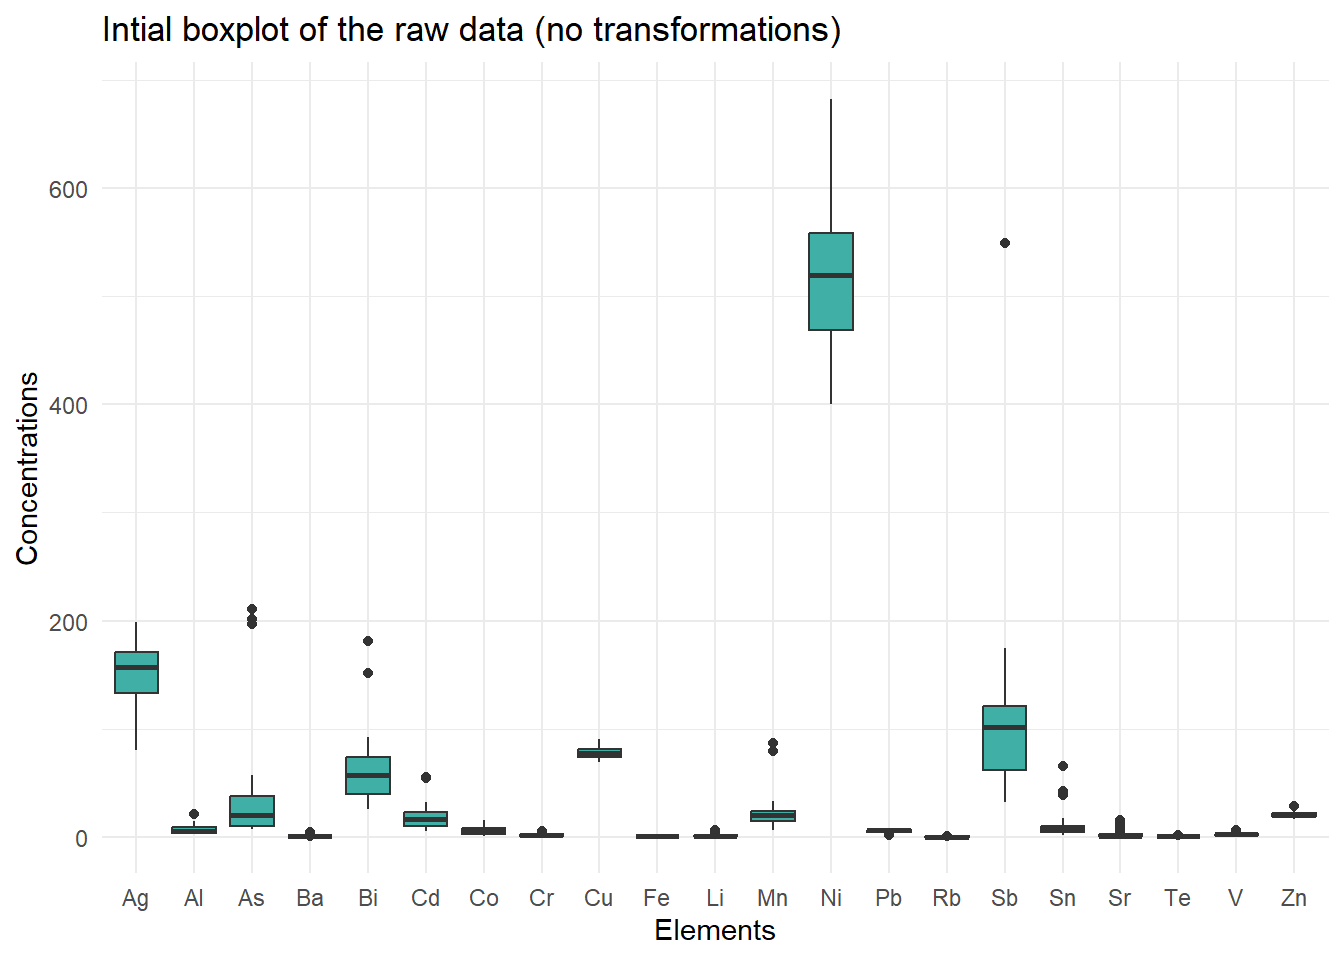
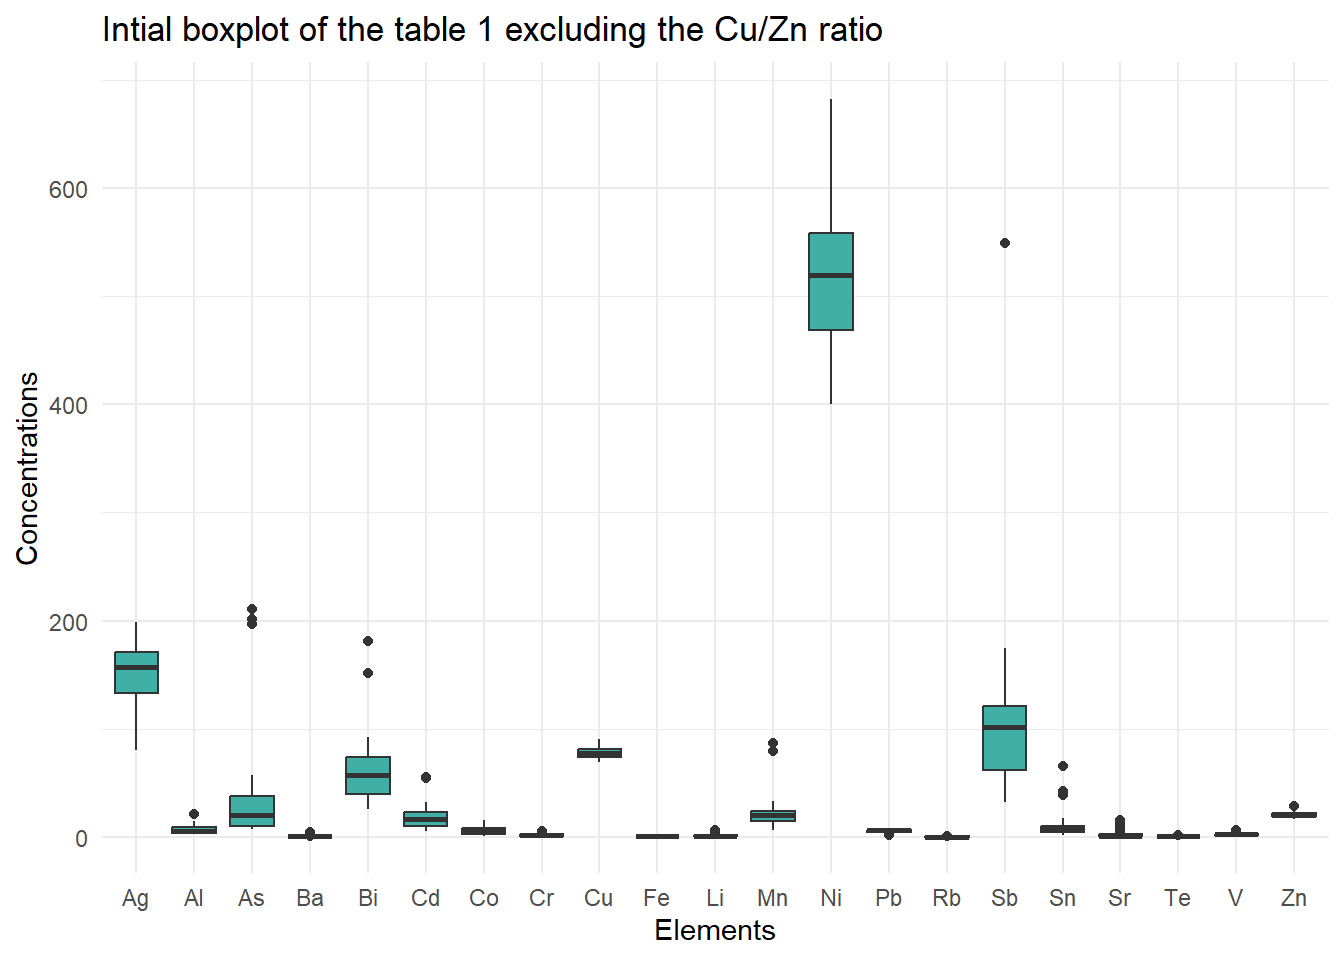
fixing the summary table

Changed region(s): [[0.2812, 0.0, 0.6562, 0.0625]]

diff --git a/Text/Reports/Report.html b/Text/Reports/Report.html
@@ -1107,7 +1107,7 @@ ul.task-list li input[type="checkbox"] {
 <p>Data obtained for the table above containing the main component, trace element concentrations and Cu/Zn weight ratio was obtained by Inductively coupled plasma optical emission spectroscopy (ICP-OES) and Inductively coupled plasma mass spectrometry (ICP-MS) techniques (Caponetti et al). Collecting samples from 38 ancient ingots (they originally collected 40) to analysis the association between the ingots composition.</p>
 <p>For the analysis of our report we will be considering all the main components and trace element concentrations exuding the Cu/Zn ratio as…</p>
 <p><strong>2.2 Brief summary of the data</strong></p>
-<p>We started by performing a simple summary of the data</p>
+<p>We started by performing a simple summary of the data in table 1 and creating a box plot to visualize the data. Something to highlight is that the main elements (Cu, Zn, Pb and Fe) are all in percentages, where as the concentrations of the trace elements are in PPM (parts per a million)</p>
 <div class="cell">
 <div class="cell-output-display">
 <table class="caption-top table table-sm table-striped small">
@@ -1115,7 +1115,7 @@ ul.task-list li input[type="checkbox"] {
 <tbody>
 <tr class="odd">
 <td style="text-align: left;">Name</td>
-<td style="text-align: left;">Ingots_F_no</td>
+<td style="text-align: left;">Ingots_F_no[, -1]</td>
 </tr>
 <tr class="even">
 <td style="text-align: left;">Number of rows</td>
@@ -1123,7 +1123,7 @@ ul.task-list li input[type="checkbox"] {
 </tr>
 <tr class="odd">
 <td style="text-align: left;">Number of columns</td>
-<td style="text-align: left;">22</td>
+<td style="text-align: left;">21</td>
 </tr>
 <tr class="even">
 <td style="text-align: left;">_______________________</td>
@@ -1134,80 +1134,35 @@ ul.task-list li input[type="checkbox"] {
 <td style="text-align: left;"></td>
 </tr>
 <tr class="even">
-<td style="text-align: left;">character</td>
-<td style="text-align: left;">1</td>
-</tr>
-<tr class="odd">
 <td style="text-align: left;">numeric</td>
 <td style="text-align: left;">21</td>
 </tr>
-<tr class="even">
+<tr class="odd">
 <td style="text-align: left;">________________________</td>
 <td style="text-align: left;"></td>
 </tr>
-<tr class="odd">
+<tr class="even">
 <td style="text-align: left;">Group variables</td>
 <td style="text-align: left;">None</td>
-</tr>
-</tbody>
-</table>
-<p><strong>Variable type: character</strong></p>
-<table class="caption-top table table-sm table-striped small">
-<colgroup>
-<col style="width: 19%">
-<col style="width: 13%">
-<col style="width: 19%">
-<col style="width: 5%">
-<col style="width: 5%">
-<col style="width: 8%">
-<col style="width: 12%">
-<col style="width: 15%">
-</colgroup>
-<thead>
-<tr class="header">
-<th style="text-align: left;">skim_variable</th>
-<th style="text-align: right;">n_missing</th>
-<th style="text-align: right;">complete_rate</th>
-<th style="text-align: right;">min</th>
-<th style="text-align: right;">max</th>
-<th style="text-align: right;">empty</th>
-<th style="text-align: right;">n_unique</th>
-<th style="text-align: right;">whitespace</th>
-</tr>
-</thead>
-<tbody>
-<tr class="odd">
-<td style="text-align: left;">Sample</td>
-<td style="text-align: right;">0</td>
-<td style="text-align: right;">1</td>
-<td style="text-align: right;">2</td>
-<td style="text-align: right;">3</td>
-<td style="text-align: right;">0</td>
-<td style="text-align: right;">38</td>
-<td style="text-align: right;">0</td>
 </tr>
 </tbody>
 </table>
 <p><strong>Variable type: numeric</strong></p>
 <table class="caption-top table table-sm table-striped small">
 <colgroup>
-<col style="width: 15%">
+<col style="width: 20%">
 <col style="width: 10%">
-<col style="width: 15%">
-<col style="width: 7%">
-<col style="width: 6%">
-<col style="width: 7%">
-<col style="width: 7%">
-<col style="width: 7%">
-<col style="width: 7%">
-<col style="width: 7%">
-<col style="width: 6%">
+<col style="width: 8%">
+<col style="width: 10%">
+<col style="width: 10%">
+<col style="width: 10%">
+<col style="width: 10%">
+<col style="width: 10%">
+<col style="width: 8%">
 </colgroup>
 <thead>
 <tr class="header">
 <th style="text-align: left;">skim_variable</th>
-<th style="text-align: right;">n_missing</th>
-<th style="text-align: right;">complete_rate</th>
 <th style="text-align: right;">mean</th>
 <th style="text-align: right;">sd</th>
 <th style="text-align: right;">p0</th>
@@ -1221,8 +1176,6 @@ ul.task-list li input[type="checkbox"] {
 <tbody>
 <tr class="odd">
 <td style="text-align: left;">Cu</td>
-<td style="text-align: right;">0</td>
-<td style="text-align: right;">1</td>
 <td style="text-align: right;">77.42</td>
 <td style="text-align: right;">4.98</td>
 <td style="text-align: right;">69.00</td>
@@ -1234,8 +1187,6 @@ ul.task-list li input[type="checkbox"] {
 </tr>
 <tr class="even">
 <td style="text-align: left;">Zn</td>
-<td style="text-align: right;">0</td>
-<td style="text-align: right;">1</td>
 <td style="text-align: right;">20.95</td>
 <td style="text-align: right;">3.25</td>
 <td style="text-align: right;">16.00</td>
@@ -1247,8 +1198,6 @@ ul.task-list li input[type="checkbox"] {
 </tr>
 <tr class="odd">
 <td style="text-align: left;">Pb</td>
-<td style="text-align: right;">0</td>
-<td style="text-align: right;">1</td>
 <td style="text-align: right;">5.50</td>
 <td style="text-align: right;">1.34</td>
 <td style="text-align: right;">1.05</td>
@@ -1260,8 +1209,6 @@ ul.task-list li input[type="checkbox"] {
 </tr>
 <tr class="even">
 <td style="text-align: left;">Fe</td>
-<td style="text-align: right;">0</td>
-<td style="text-align: right;">1</td>
 <td style="text-align: right;">0.50</td>
 <td style="text-align: right;">0.23</td>
 <td style="text-align: right;">0.14</td>
@@ -1273,8 +1220,6 @@ ul.task-list li input[type="checkbox"] {
 </tr>
 <tr class="odd">
 <td style="text-align: left;">Ni</td>
-<td style="text-align: right;">0</td>
-<td style="text-align: right;">1</td>
 <td style="text-align: right;">525.05</td>
 <td style="text-align: right;">69.56</td>
 <td style="text-align: right;">400.00</td>
@@ -1286,8 +1231,6 @@ ul.task-list li input[type="checkbox"] {
 </tr>
 <tr class="even">
 <td style="text-align: left;">Ag</td>
-<td style="text-align: right;">0</td>
-<td style="text-align: right;">1</td>
 <td style="text-align: right;">149.07</td>
 <td style="text-align: right;">29.59</td>
 <td style="text-align: right;">80.00</td>
@@ -1299,8 +1242,6 @@ ul.task-list li input[type="checkbox"] {
 </tr>
 <tr class="odd">
 <td style="text-align: left;">Sb</td>
-<td style="text-align: right;">0</td>
-<td style="text-align: right;">1</td>
 <td style="text-align: right;">105.16</td>
 <td style="text-align: right;">82.28</td>
 <td style="text-align: right;">32.20</td>
@@ -1312,8 +1253,6 @@ ul.task-list li input[type="checkbox"] {
 </tr>
 <tr class="even">
 <td style="text-align: left;">As</td>
-<td style="text-align: right;">0</td>
-<td style="text-align: right;">1</td>
 <td style="text-align: right;">36.81</td>
 <td style="text-align: right;">51.35</td>
 <td style="text-align: right;">7.04</td>
@@ -1325,8 +1264,6 @@ ul.task-list li input[type="checkbox"] {
 </tr>
 <tr class="odd">
 <td style="text-align: left;">Co</td>
-<td style="text-align: right;">0</td>
-<td style="text-align: right;">1</td>
 <td style="text-align: right;">5.23</td>
 <td style="text-align: right;">3.25</td>
 <td style="text-align: right;">0.34</td>
@@ -1338,8 +1275,6 @@ ul.task-list li input[type="checkbox"] {
 </tr>
 <tr class="even">
 <td style="text-align: left;">Cd</td>
-<td style="text-align: right;">0</td>
-<td style="text-align: right;">1</td>
 <td style="text-align: right;">17.81</td>
 <td style="text-align: right;">11.38</td>
 <td style="text-align: right;">5.00</td>
@@ -1351,8 +1286,6 @@ ul.task-list li input[type="checkbox"] {
 </tr>
 <tr class="odd">
 <td style="text-align: left;">Sn</td>
-<td style="text-align: right;">0</td>
-<td style="text-align: right;">1</td>
 <td style="text-align: right;">10.17</td>
 <td style="text-align: right;">12.43</td>
 <td style="text-align: right;">1.89</td>
@@ -1364,8 +1297,6 @@ ul.task-list li input[type="checkbox"] {
 </tr>
 <tr class="even">
 <td style="text-align: left;">Te</td>
-<td style="text-align: right;">0</td>
-<td style="text-align: right;">1</td>
 <td style="text-align: right;">0.86</td>
 <td style="text-align: right;">0.21</td>
 <td style="text-align: right;">0.56</td>
@@ -1377,8 +1308,6 @@ ul.task-list li input[type="checkbox"] {
 </tr>
 <tr class="odd">
 <td style="text-align: left;">Bi</td>
-<td style="text-align: right;">0</td>
-<td style="text-align: right;">1</td>
 <td style="text-align: right;">60.49</td>
 <td style="text-align: right;">32.61</td>
 <td style="text-align: right;">25.30</td>
@@ -1390,8 +1319,6 @@ ul.task-list li input[type="checkbox"] {
 </tr>
 <tr class="even">
 <td style="text-align: left;">Mn</td>
-<td style="text-align: right;">0</td>
-<td style="text-align: right;">1</td>
 <td style="text-align: right;">22.54</td>
 <td style="text-align: right;">15.51</td>
 <td style="text-align: right;">5.80</td>
@@ -1403,8 +1330,6 @@ ul.task-list li input[type="checkbox"] {
 </tr>
 <tr class="odd">
 <td style="text-align: left;">Li</td>
-<td style="text-align: right;">0</td>
-<td style="text-align: right;">1</td>
 <td style="text-align: right;">1.23</td>
 <td style="text-align: right;">1.44</td>
 <td style="text-align: right;">0.10</td>
@@ -1416,8 +1341,6 @@ ul.task-list li input[type="checkbox"] {
 </tr>
 <tr class="even">
 <td style="text-align: left;">Al</td>
-<td style="text-align: right;">0</td>
-<td style="text-align: right;">1</td>
 <td style="text-align: right;">6.57</td>
 <td style="text-align: right;">4.29</td>
 <td style="text-align: right;">2.02</td>
@@ -1429,8 +1352,6 @@ ul.task-list li input[type="checkbox"] {
 </tr>
 <tr class="odd">
 <td style="text-align: left;">V</td>
-<td style="text-align: right;">0</td>
-<td style="text-align: right;">1</td>
 <td style="text-align: right;">2.23</td>
 <td style="text-align: right;">1.09</td>
 <td style="text-align: right;">0.89</td>
@@ -1442,8 +1363,6 @@ ul.task-list li input[type="checkbox"] {
 </tr>
 <tr class="even">
 <td style="text-align: left;">Cr</td>
-<td style="text-align: right;">0</td>
-<td style="text-align: right;">1</td>
 <td style="text-align: right;">1.60</td>
 <td style="text-align: right;">0.92</td>
 <td style="text-align: right;">0.57</td>
@@ -1455,8 +1374,6 @@ ul.task-list li input[type="checkbox"] {
 </tr>
 <tr class="odd">
 <td style="text-align: left;">Rb</td>
-<td style="text-align: right;">0</td>
-<td style="text-align: right;">1</td>
 <td style="text-align: right;">0.10</td>
 <td style="text-align: right;">0.03</td>
 <td style="text-align: right;">0.06</td>
@@ -1468,8 +1385,6 @@ ul.task-list li input[type="checkbox"] {
 </tr>
 <tr class="even">
 <td style="text-align: left;">Sr</td>
-<td style="text-align: right;">0</td>
-<td style="text-align: right;">1</td>
 <td style="text-align: right;">2.05</td>
 <td style="text-align: right;">3.51</td>
 <td style="text-align: right;">0.08</td>
@@ -1481,8 +1396,6 @@ ul.task-list li input[type="checkbox"] {
 </tr>
 <tr class="odd">
 <td style="text-align: left;">Ba</td>
-<td style="text-align: right;">0</td>
-<td style="text-align: right;">1</td>
 <td style="text-align: right;">0.59</td>
 <td style="text-align: right;">1.00</td>
 <td style="text-align: right;">0.12</td>
@@ -1503,6 +1416,8 @@ ul.task-list li input[type="checkbox"] {
 </div>
 </div>
 </div>
+<p>Ni (nickel) has the largest spread followed by Sb (tin). Unfortunately due to the fact the data has a large range of concentrates (ranging from a minimum of 0.06 for Rb and a max of 683 for Ni) we will have to consider some transformations to allow for this massive difference in concentrations. looking at the raw data we also noticed some interesting outliers particularly the 549 for sample 13 for Sb (tin), which the original paper noted as well.</p>
+<p>We will be taking a deeper dive into Copper, Zinc, Lead and Tin as … {something - Alice got this}</p>
 <p><strong>2.3 Transformations</strong></p>
 <p>MAD used because it is more robust to outliers. A log transformation would fix the skew and pull the outliers in, but not eliminate their mathematical influence.</p>
 <p><strong>2.4 Correlation plots after the transformation</strong></p>
